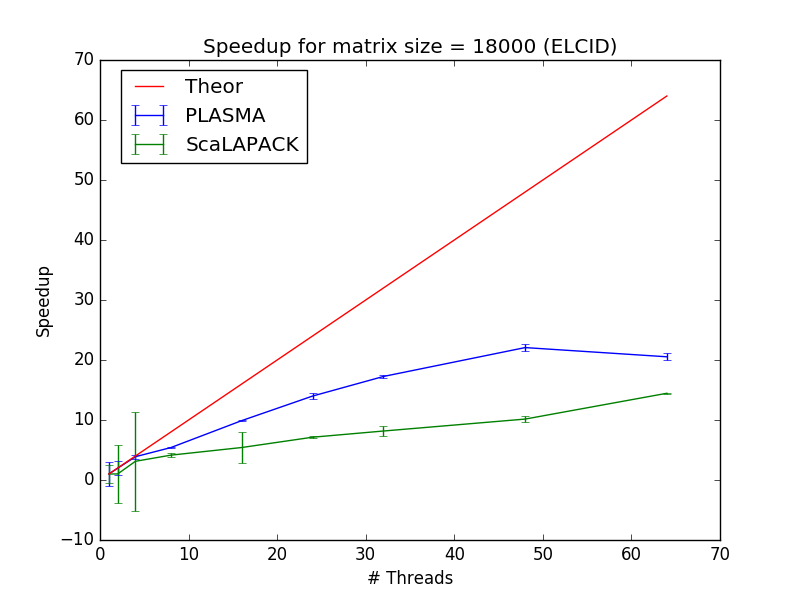
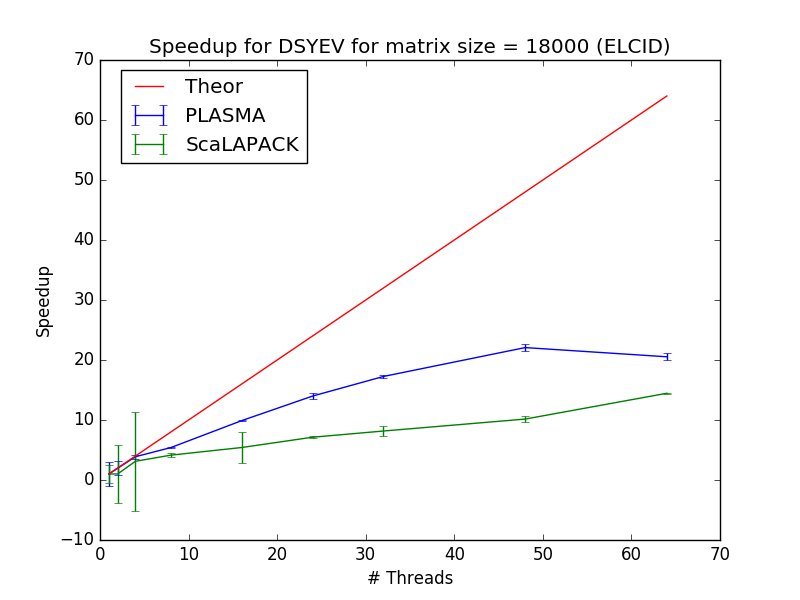
mod

Changed region(s): [[0.1875, 0.06, 0.8438, 0.09]]

diff --git a/D2-exercise/provided_code/elcid/plot.py b/D2-exercise/provided_code/elcid/plot.py
@@ -66,7 +66,7 @@ plt.errorbar(s, nspeedup, yerr=nerr, label = 'ScaLAPACK')
 plt.plot(s, s, label = 'Theor')
 
 # plt.title('Speedup for DSYEV for matrix size = 10000 (ELCID)')
-plt.title('Speedup for matrix size = 18000 (ELCID)')
+plt.title('Speedup for DSYEV for matrix size = 18000 (ELCID)')
 
 plt.xlabel('# Threads')
 plt.ylabel('Speedup')
